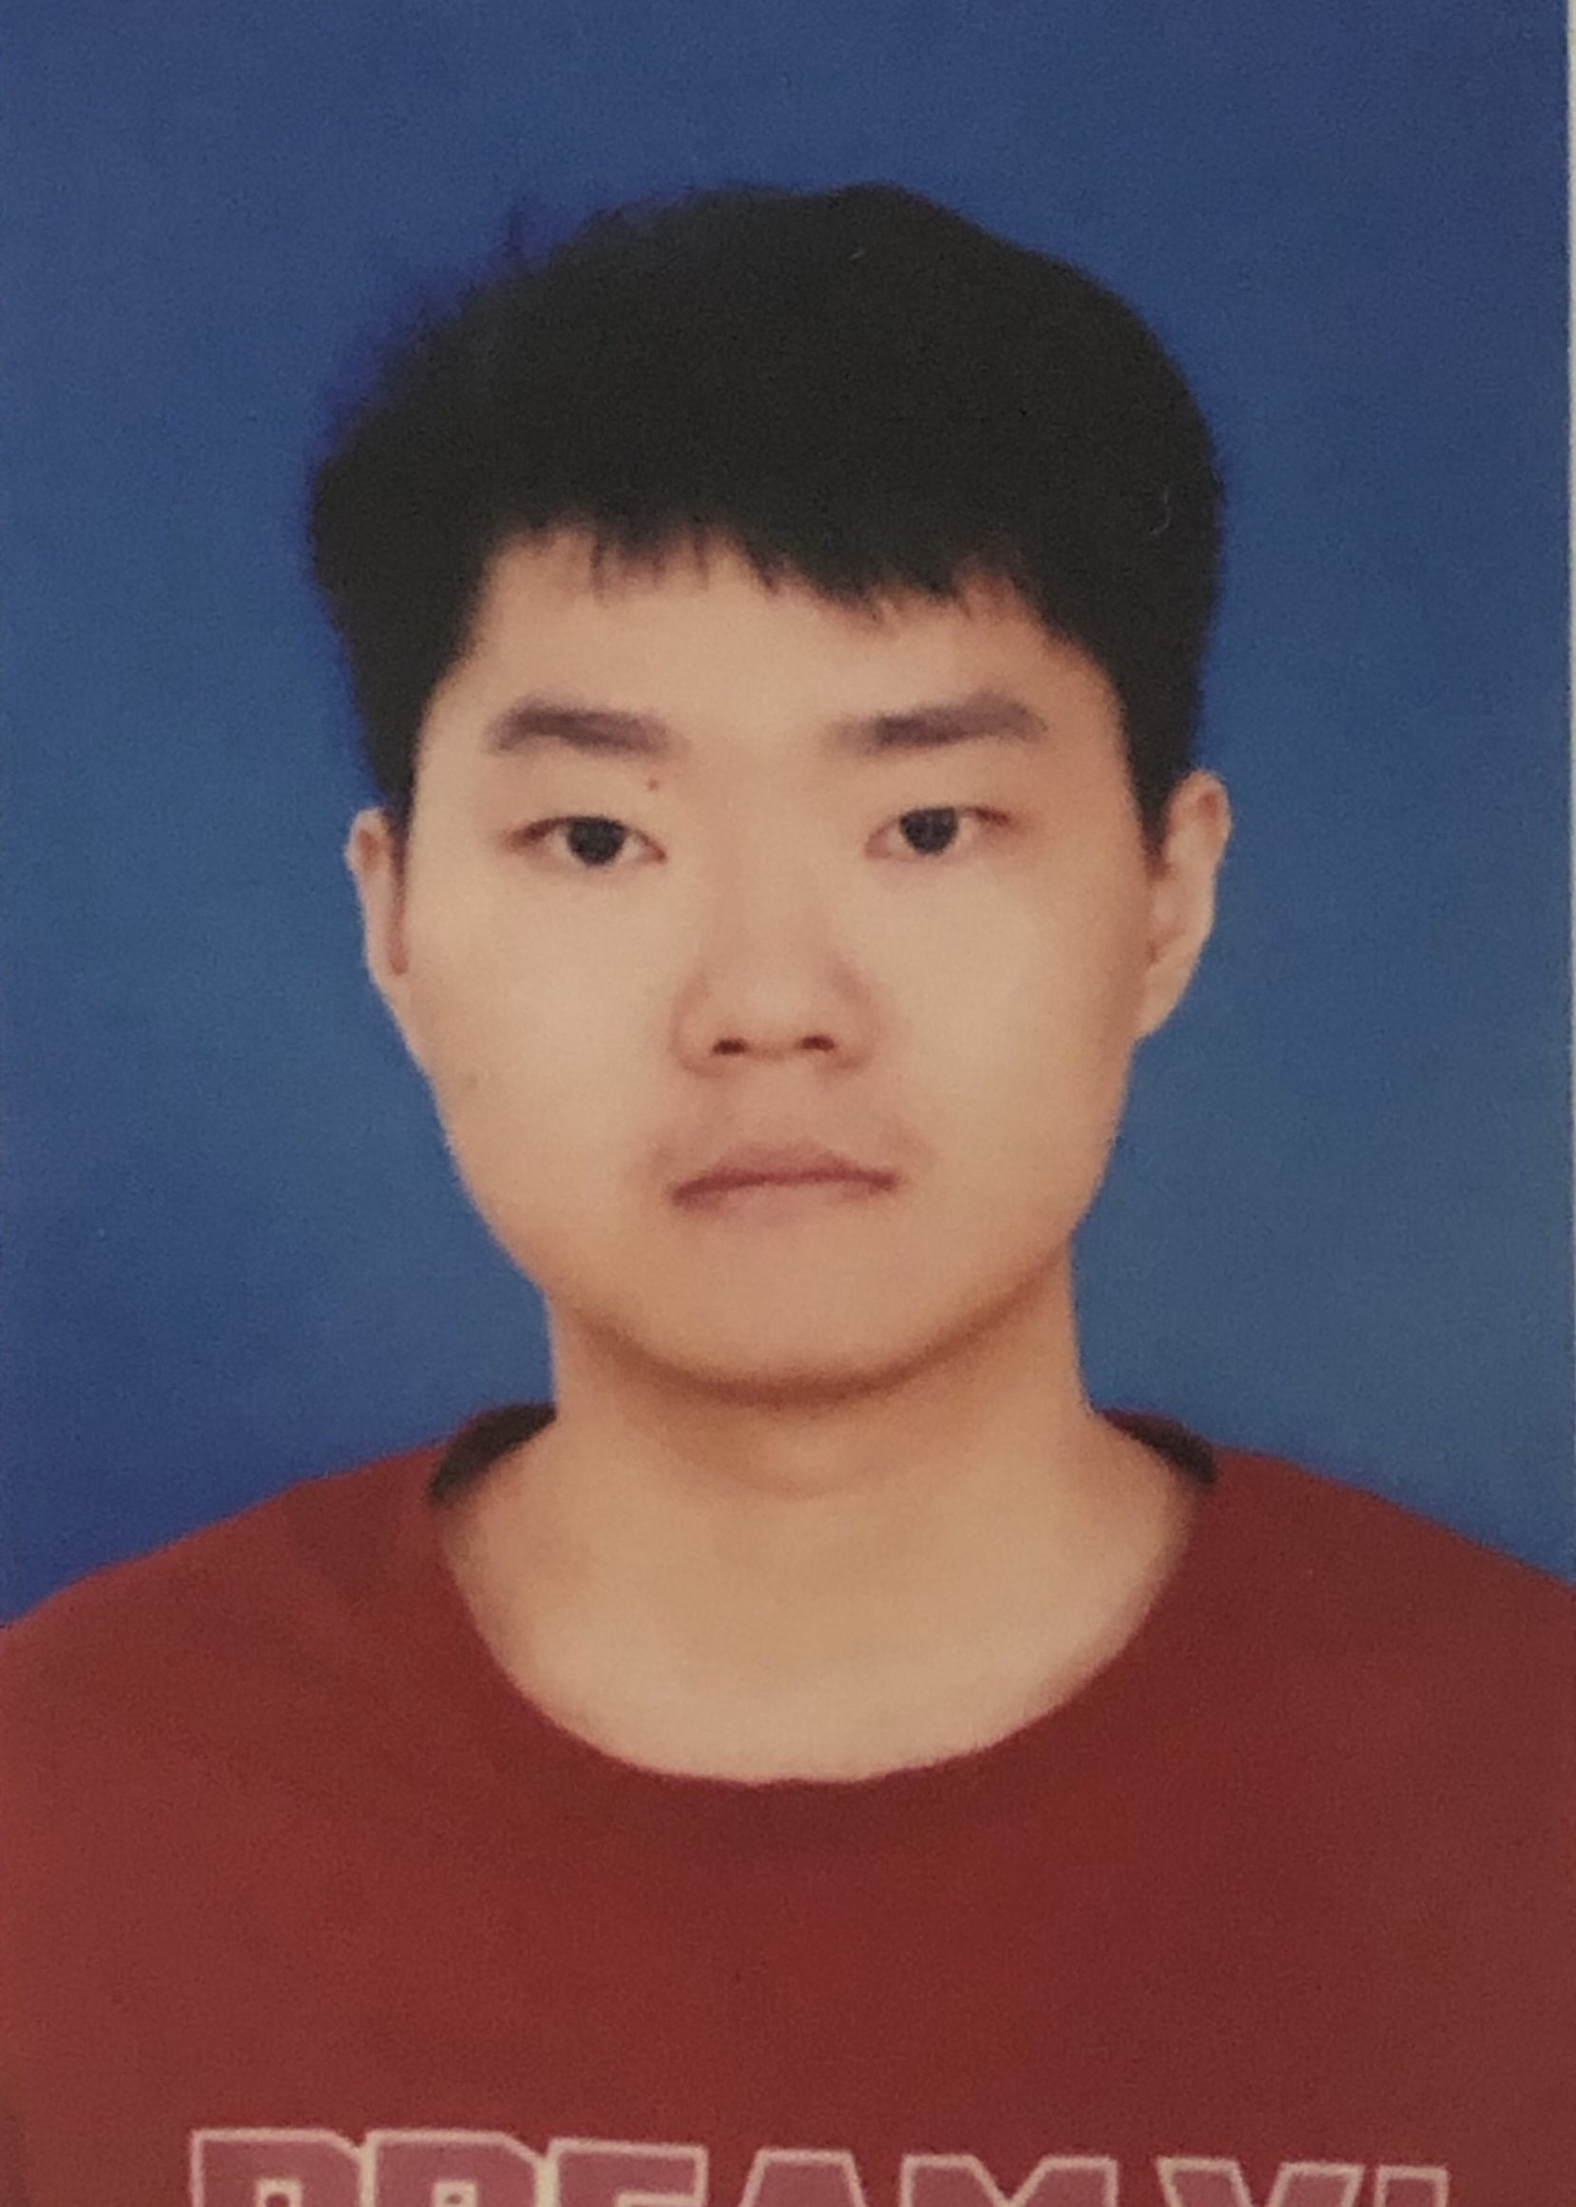
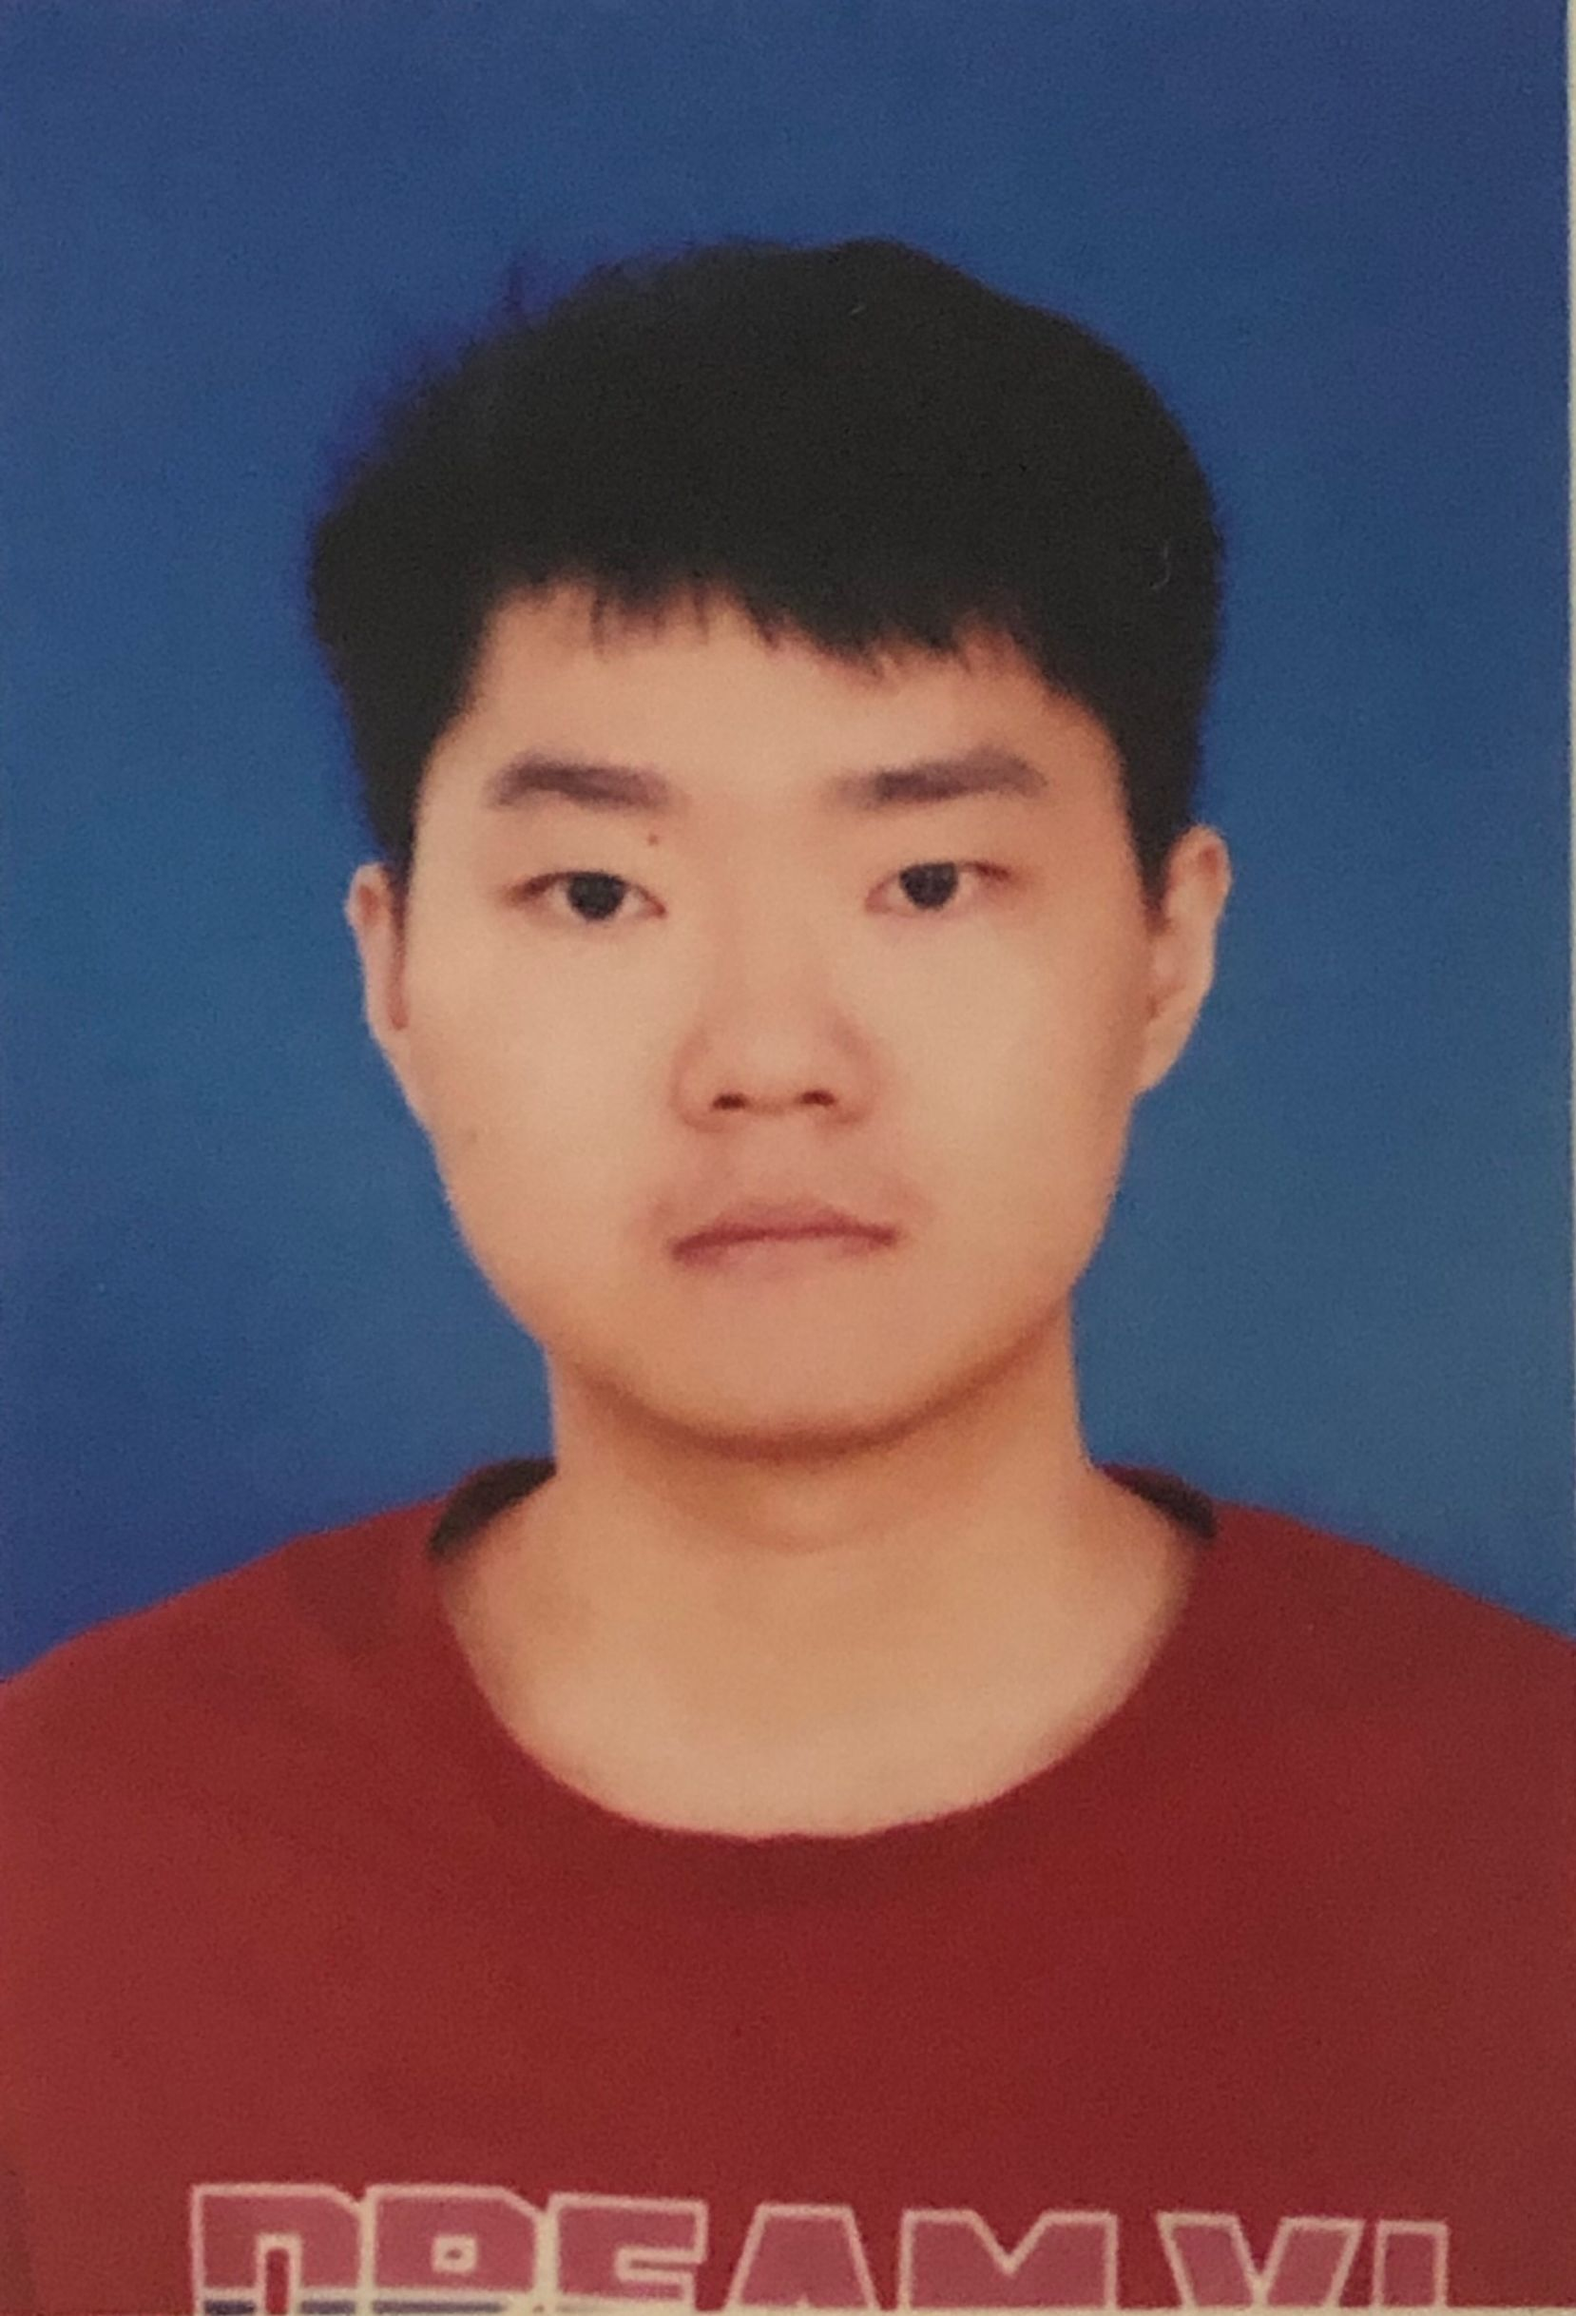
Update group roster

diff --git a/Group.html b/Group.html
@@ -158,42 +158,6 @@
 
             <div class="grid md:grid-cols-2 lg:grid-cols-4 gap-6">
 
-                <!-- Xue Zhang -->
-                <div class="bg-white rounded-xl shadow-md overflow-hidden hover:shadow-lg transition">
-                    <div class="h-48 bg-gray-100 flex items-center justify-center p-4">
-                        <img src="assets/img/zhangxue.jpg" alt="Xue Zhang" class="w-full h-full object-contain">
-                    </div>
-                    <div class="p-6">
-                        <h3 class="text-xl font-semibold text-gray-900 mb-2">Xue Zhang</h3>
-                        <div class="flex items-center gap-2 mb-3">
-                            <span class="px-3 py-1 bg-primary-600 text-white text-xs font-medium rounded-full">Ph.D Student</span>
-                            <span class="text-sm text-gray-600">Since 2021</span>
-                        </div>
-                        <div class="space-y-2">
-                            <p class="text-gray-700"><span class="font-medium">Research Interests:</span> Atomistic Simulation, Magnetization Switching</p>
-                            <p class="text-sm text-gray-600 mb-1">B.Sc. Xidian University</p>
-                        </div>
-                    </div>
-                </div>
-
-                <!-- Zhengde Xu -->
-                <div class="bg-white rounded-xl shadow-md overflow-hidden hover:shadow-lg transition">
-                    <div class="h-48 bg-gray-100 flex items-center justify-center p-4">
-                        <img src="assets/img/xuzhengde.jpg" alt="Zhengde Xu" class="w-full h-full object-contain">
-                    </div>
-                    <div class="p-6">
-                        <h3 class="text-xl font-semibold text-gray-900 mb-2">Zhengde Xu</h3>
-                        <div class="flex items-center gap-2 mb-3">
-                            <span class="px-3 py-1 bg-primary-600 text-white text-xs font-medium rounded-full">Ph.D Student</span>
-                            <span class="text-sm text-gray-600">Since 2021</span>
-                        </div>
-                        <div class="space-y-2">
-                            <p class="text-gray-700"><span class="font-medium">Research Interests:</span> Spin-Orbit Torque, AFM and FiM</p>
-                            <p class="text-sm text-gray-600 mb-1">B.Sc. Hebei University of Technology</p>
-                        </div>
-                    </div>
-                </div>
-
                 <!-- Zhenhang Kong -->
                 <div class="bg-white rounded-xl shadow-md overflow-hidden hover:shadow-lg transition">
                     <div class="h-48 bg-gray-100 flex items-center justify-center p-4">
@@ -212,24 +176,22 @@
                     </div>
                 </div>
 
-                <!-- Boyu Zhao -->
+                <!-- Jie Ren -->
                 <div class="bg-white rounded-xl shadow-md overflow-hidden hover:shadow-lg transition">
                     <div class="h-48 bg-gray-100 flex items-center justify-center p-4">
-                        <img src="assets/img/zhaoboyu.jpg" alt="Boyu Zhao" class="w-full h-full object-contain">
+                        <img src="assets/img/renjie.jpg" alt="Jie Ren" class="w-full h-full object-contain">
                     </div>
                     <div class="p-6">
-                        <h3 class="text-xl font-semibold text-gray-900 mb-2">Boyu Zhao</h3>
+                        <h3 class="text-xl font-semibold text-gray-900 mb-2">Jie Ren</h3>
                         <div class="flex items-center gap-2 mb-3">
-                            <span class="px-3 py-1 bg-info-600 text-white text-xs font-medium rounded-full">Master Student</span>
-                            <span class="text-sm text-gray-600">Since 2023</span>
+                            <span class="px-3 py-1 bg-primary-600 text-white text-xs font-medium rounded-full">Ph.D Student</span>
+                            <span class="text-sm text-gray-600">Since 2026</span>
                         </div>
                         <div class="space-y-2">
-                            <p class="text-gray-700"><span class="font-medium">Research Interests:</span> DFT, Spintronics Devices</p>
-                            <p class="text-sm text-gray-600 mb-1">B.Sc. Beihang University</p>
+                            <p class="text-sm text-gray-600 mb-1">B.Sc. XUT</p>
                         </div>
                     </div>
                 </div>
-
                 <!-- Dongyang Chen -->
                 <div class="bg-white rounded-xl shadow-md overflow-hidden hover:shadow-lg transition">
                     <div class="h-48 bg-gray-100 flex items-center justify-center p-4">
@@ -261,7 +223,7 @@
                         </div>
                         <div class="space-y-2">
                             <p class="text-gray-700"><span class="font-medium">Research Interests:</span> 2D Material, Magnetic Devices</p>
-                            <p class="text-sm text-gray-600 mb-1">B.Sc. Beihang University</p>
+                            <p class="text-sm text-gray-600 mb-1">B.Sc. ShanghaiTech University</p>
                         </div>
                     </div>
                 </div>
@@ -279,7 +241,7 @@
                         </div>
                         <div class="space-y-2">
                             <p class="text-gray-700"><span class="font-medium">Research Interests:</span> Spintronics</p>
-                            <p class="text-sm text-gray-600 mb-1">B.Sc. Beihang University</p>
+                            <p class="text-sm text-gray-600 mb-1">B.Sc. ShanghaiTech University</p>
                         </div>
                     </div>
                 </div>
@@ -298,6 +260,40 @@
                         <div class="space-y-2">
                             <p class="text-gray-700"><span class="font-medium">Research Interests:</span> Spintronics Devices, Magnetic Materials</p>
                             <p class="text-sm text-gray-600 mb-1">B.Sc. ShanghaiTech University</p>
+                        </div>
+                    </div>
+                </div>
+
+                <!-- Jingyu Kang -->
+                <div class="bg-white rounded-xl shadow-md overflow-hidden hover:shadow-lg transition">
+                    <div class="h-48 bg-gray-100 flex items-center justify-center p-4">
+                        <img src="assets/img/jingyu_kang.jpg" alt="Jingyu Kang" class="w-full h-full object-contain">
+                    </div>
+                    <div class="p-6">
+                        <h3 class="text-xl font-semibold text-gray-900 mb-2">Jingyu Kang</h3>
+                        <div class="flex items-center gap-2 mb-3">
+                            <span class="px-3 py-1 bg-info-600 text-white text-xs font-medium rounded-full">Master Student</span>
+                            <span class="text-sm text-gray-600">Since 2026</span>
+                        </div>
+                        <div class="space-y-2">
+                            <p class="text-sm text-gray-600 mb-1">B.Sc. ShanghaiTech University</p>
+                        </div>
+                    </div>
+                </div>
+
+                <!-- Jiajun Chai -->
+                <div class="bg-white rounded-xl shadow-md overflow-hidden hover:shadow-lg transition">
+                    <div class="h-48 bg-gray-100 flex items-center justify-center p-4">
+                        <img src="assets/img/jiajun_chai.jpg" alt="Jiajun Chai" class="w-full h-full object-contain">
+                    </div>
+                    <div class="p-6">
+                        <h3 class="text-xl font-semibold text-gray-900 mb-2">Jiajun Chai</h3>
+                        <div class="flex items-center gap-2 mb-3">
+                            <span class="px-3 py-1 bg-info-600 text-white text-xs font-medium rounded-full">Master Student</span>
+                            <span class="text-sm text-gray-600">Since 2026</span>
+                        </div>
+                        <div class="space-y-2">
+                            <p class="text-sm text-gray-600 mb-1">B.Sc. Huake University (HUST)</p>
                         </div>
                     </div>
                 </div>
@@ -324,6 +320,9 @@
                             <li>Zhengping Yuan (Master 2021) B.Sc. HUST</li>
                             <li>Zhuo Xu (Master 2022) B.Sc. ShanghaiTech</li>
                             <li>Yixiao Qiao (Master 2022) B.Sc. ShanghaiTech</li>
+                            <li>Boyu Zhao (Master 2023) B.Sc. Beihang University</li>
+                            <li>Xue Zhang (Ph.D 2023) B.Sc. Xidian University</li>
+                            <li>Zhengde Xu (Ph.D 2023) B.Sc. Hebei University of Technology</li>
                         </ul>
                     </div>
 
@@ -333,6 +332,7 @@
                             <li>2020: Weiyan Zhang with HHGRACE (张伟岩, 华虹宏力)</li>
                             <li>2022: Jizhou Lin (林济舟, 上海信投)、Jianbin Yang with ICT, CAS (杨建斌, 中科院计算所)</li>
                             <li>2024: Qizhang He (何奇璋, 上海处理器中心)、Feifan Lu (卢非凡, 上海处理器中心)</li>
+                            <li>2026: Zhongrui Sun (孙忠锐, 上海创芯学院)、Chaokun Yang (杨朝坤, 上海创芯学院)</li>
                         </ul>
                     </div>
                 </div>

diff --git a/CHANGELOG.md b/CHANGELOG.md
@@ -1,0 +1,31 @@
+# Changelog
+
+## Source Code Changes
+
+### 2026-06-20 - Professional master alumni additions
+- Added the 2026 Professional master degree entry for Zhongrui Sun and Chaokun Yang in `Group.html`, both associated with 上海创芯学院, and corrected their Chinese names.
+- Prevention: when updating professional master alumni, keep entries grouped chronologically in the existing 专硕 list.
+
+### 2026-06-20 - Group undergraduate institution corrections
+- Updated the B.Sc. institution for Xuezhong Li and Chenhao Xu in `Group.html` to ShanghaiTech University.
+- Prevention: when updating student education fields, verify similarly named adjacent student cards so copied institution text is corrected consistently.
+
+### 2026-06-20 - Group 2026 graduate student additions
+- Added Jingyu Kang and Jiajun Chai to the active Graduate Students section in `Group.html` as 2026 graduate students.
+- Placed Jingyu Kang and Jiajun Chai at the end of the active Graduate Students list.
+- Added `assets/img/jingyu_kang.jpg` and `assets/img/jiajun_chai.jpg` from the provided student photo sources.
+- Prevention: when adding new graduate students, copy their photos into `assets/img/` and verify each new card has a matching image path and undergraduate institution.
+
+### 2026-06-19 - Group Jie Ren and Boyu Zhao roster update
+- Added Jie Ren to the active Graduate Students section in `Group.html` as a Ph.D student since 2026, placed after Zhenhang Kong.
+- Updated `assets/img/renjie.jpg` from the provided archived student photo.
+- Moved Boyu Zhao from the active Graduate Students card grid to the Former Members alumni list as a 2023 master's alumnus.
+- Kept Jie Ren's former Master 2020 alumni row while also listing him as an active Ph.D student.
+- Prevention: when a former student rejoins as an active student, confirm whether the historical alumni record should remain before removing it.
+
+### 2026-06-19 - Group alumni graduation update
+- Moved Xue Zhang and Zhengde Xu from the active Graduate Students card grid to the Former Members alumni list in `Group.html`.
+- Listed both as 2023 Ph.D alumni while preserving their undergraduate institution details.
+- Prevention: when students graduate, update both the active member section and the alumni list in the same edit so group status remains consistent.
+
+## Error Logs
